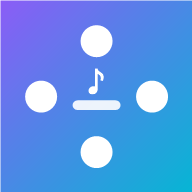
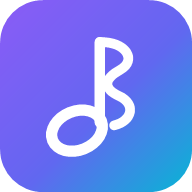
Novo ícone do Versa: colcheia com cabeça "o" e bandeirinha "s"
- Ícones da Tela de Início (iOS e Android, incluindo maskable) e favicon em SVG
- Logo do cabeçalho usa o mesmo desenho
- branding/ guarda as 4 propostas de logo

diff --git a/index.html b/index.html
@@ -10,7 +10,8 @@
 <meta name="theme-color" content="#0b0b14">
 <link rel="manifest" href="manifest.json">
 <link rel="apple-touch-icon" href="icons/icon-180.png">
-<link rel="icon" href="icons/icon-192.png">
+<link rel="icon" type="image/svg+xml" href="icons/icon.svg">
+<link rel="icon" type="image/png" href="icons/icon-192.png">
 <title>Versa</title>
 <meta name="author" content="Sóstenes Rondena">
 <link rel="stylesheet" href="style.css">
@@ -56,7 +57,7 @@
 <!-- ================= HOME (tabs) ================= -->
 <section id="home" class="view">
   <header class="apphead">
-    <div class="logo" id="homeLogo"><span class="mark">♪</span><span class="lname">Vers<span class="grad">a</span></span></div>
+    <div class="logo" id="homeLogo"><img class="mark" src="icons/icon.svg" alt=""><span class="lname">Vers<span class="grad">a</span></span></div>
     <h1 id="headTitle" class="hidden"></h1>
     <button class="iconbtn" id="btnSettings" aria-label="Configurações"><svg><use href="#i-gear"/></svg></button>
   </header>

diff --git a/README.md b/README.md
@@ -276,7 +276,8 @@ node server.js
 | `index.html` | Estrutura das telas (início, música, jogo), ícones SVG e o painel inferior. |
 | `style.css` | Visual (tema escuro, controle em cruz, botões redondos, painéis). |
 | `app.js` | Toda a lógica: biblioteca, busca, player, letras, sincronização, jogo, frases, configurações. |
-| `manifest.json`, `icons/` | Instalação como app (PWA) na Tela de Início. |
+| `manifest.json`, `icons/` | Instalação como app (PWA) na Tela de Início. Ícone: uma colcheia em que a cabeça é um “o” e a bandeirinha um “s” (`icons/icon.svg`). |
+| `branding/` | As 4 propostas de logo (a escolhida foi a opção C). |
 | `server.js` | Servidor local simples para testes. |
 
 **Dados no localStorage:**
